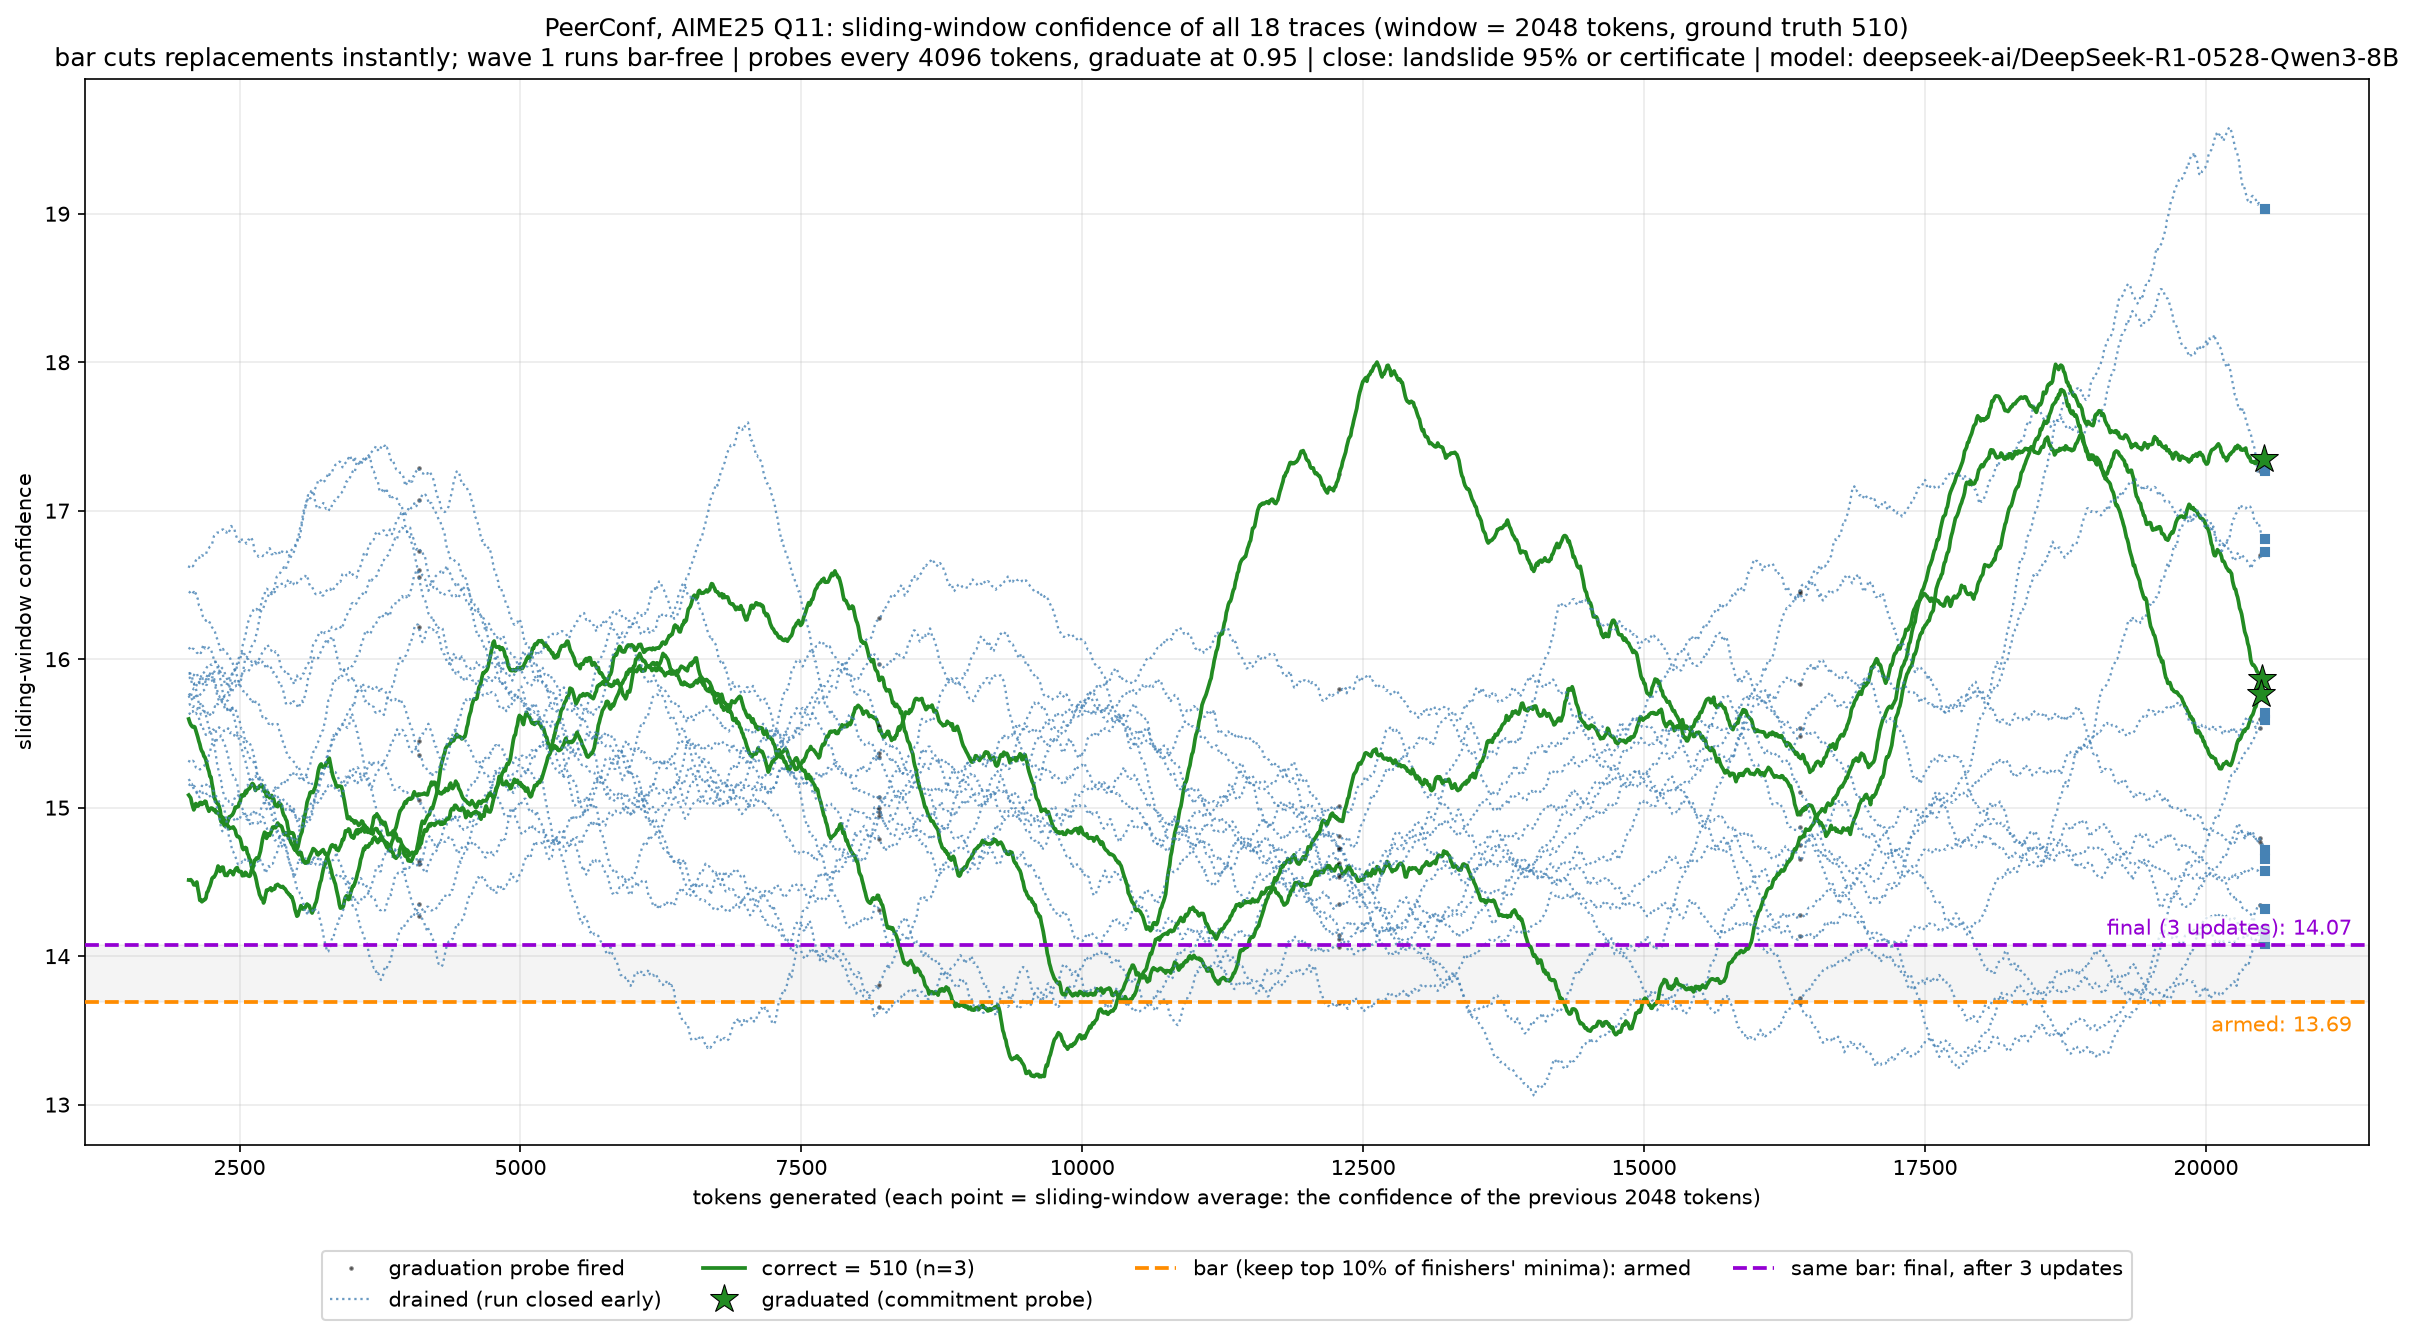
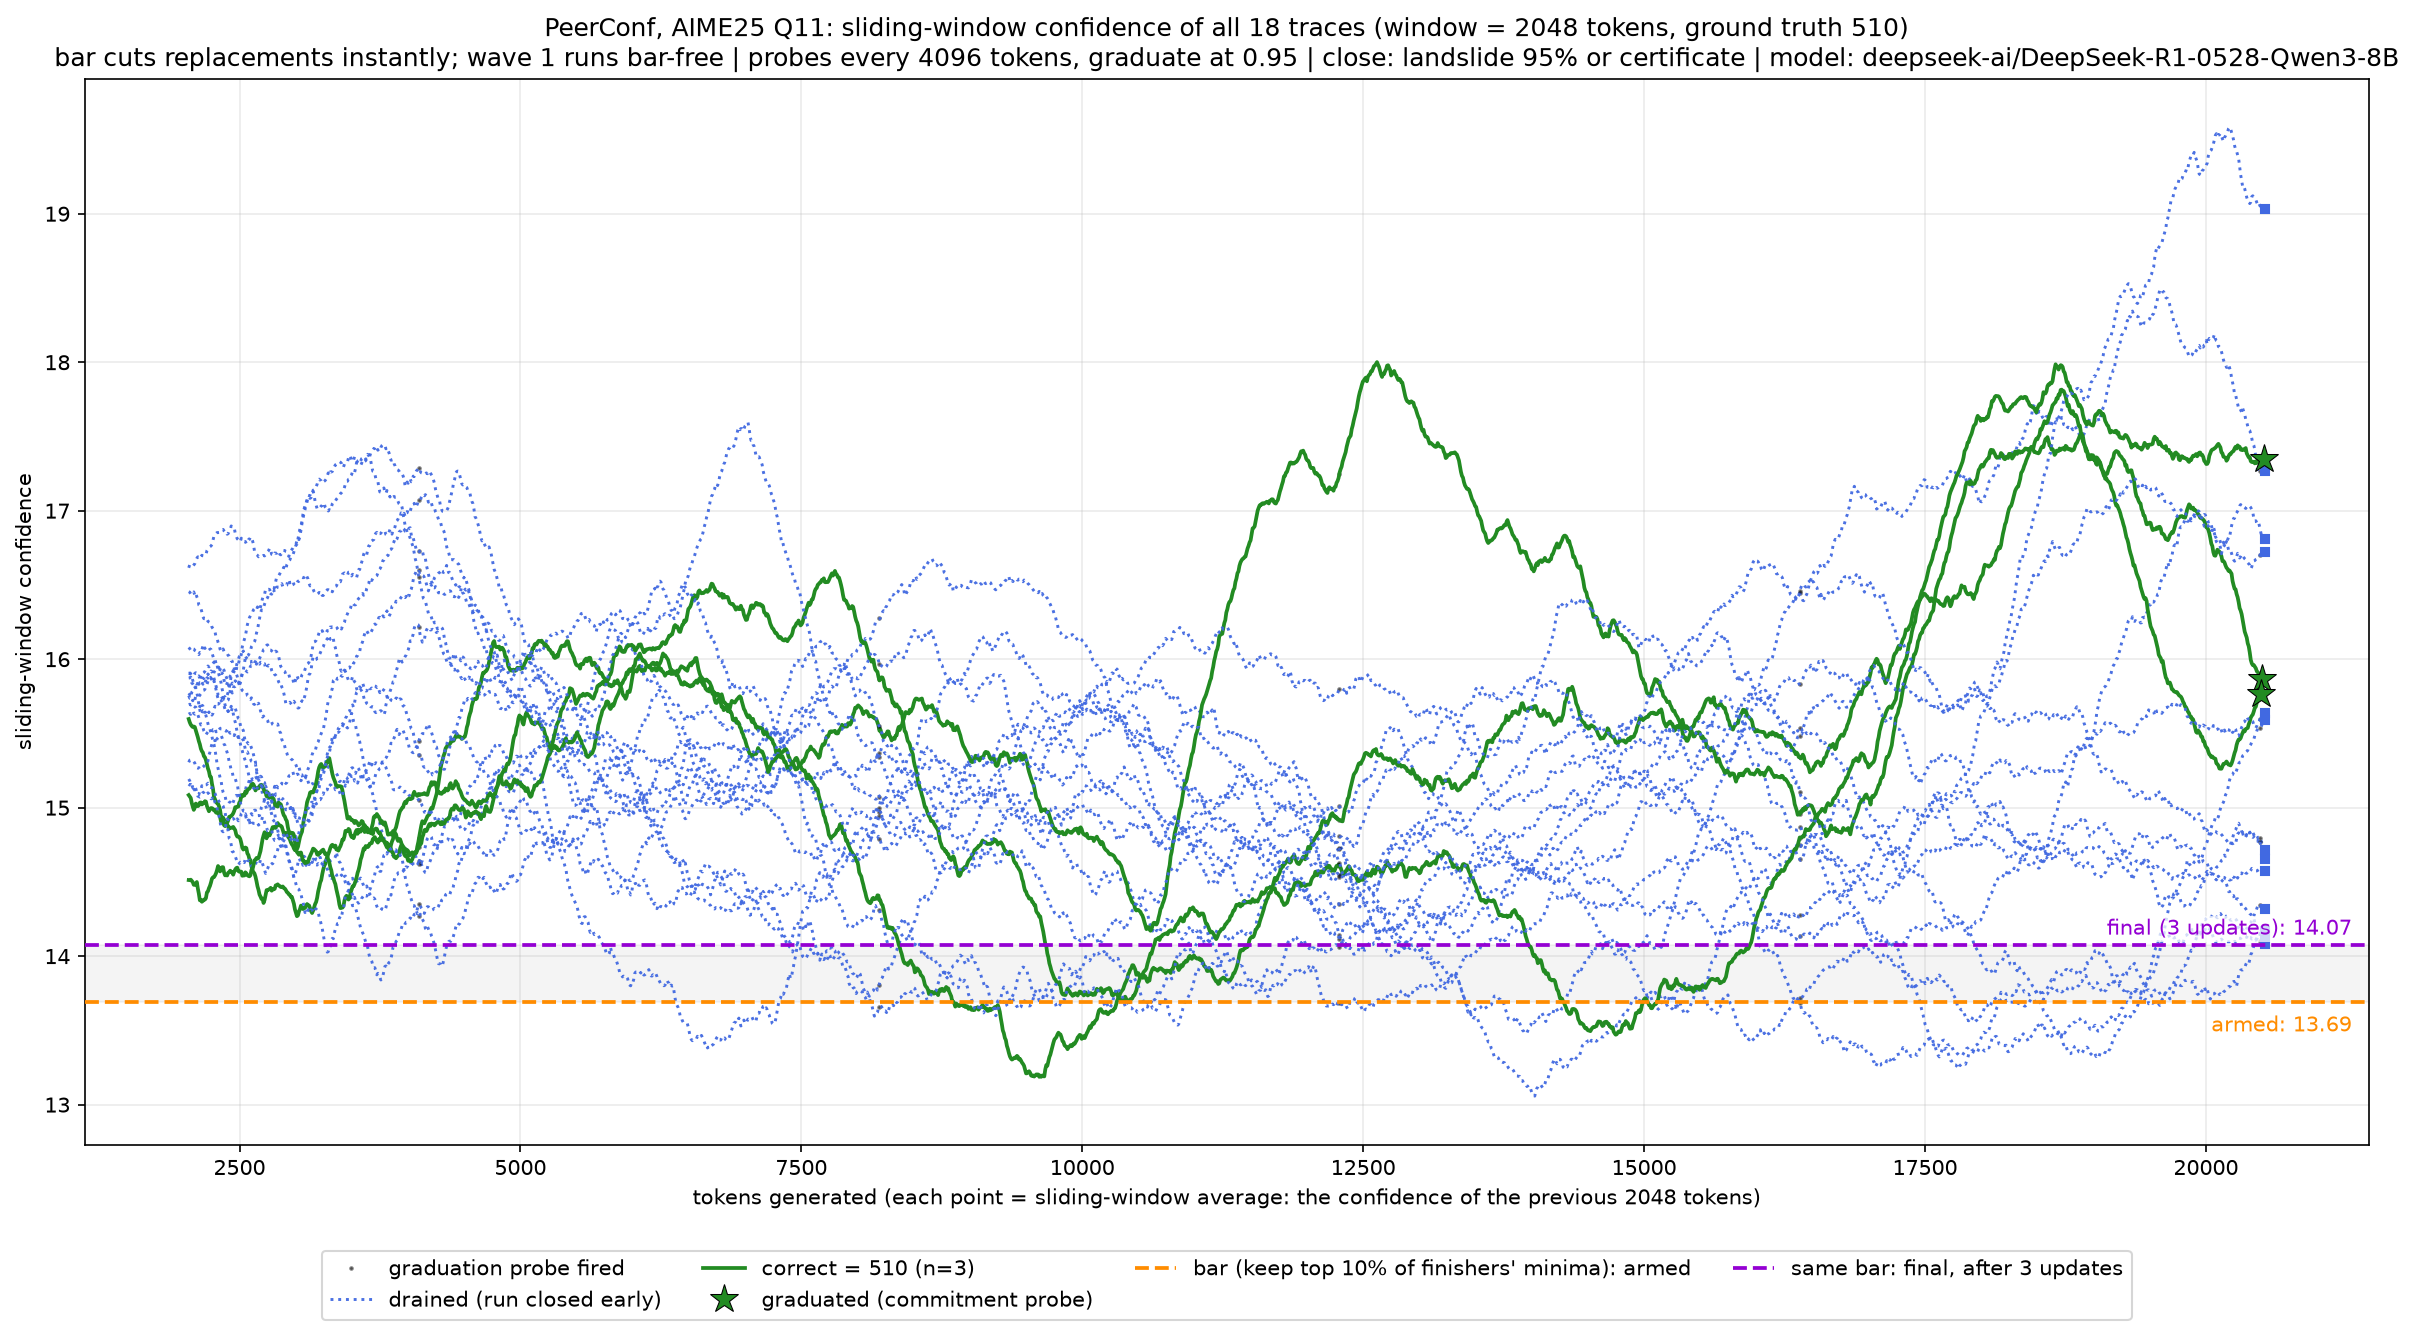
fix trace colours and stale token counts

diff --git a/peerconf/cell3_confidence_timeline.py b/peerconf/cell3_confidence_timeline.py
@@ -4,7 +4,7 @@
 # levels. One figure per question. Pick which questions with QIDS below.
 # Green = finished correct, red = the wrong majority, light red = other wrong
 # answers, gray + X = cut at the bar, khaki dashed = truncated with no answer,
-# steel dotted = drained when the run closed. Stars = graduated by a commitment
+# blue dotted = drained when the run closed. Stars = graduated by a commitment
 # probe; triangles = loop-guard harvests; small black dots along a trace mark
 # where each graduation probe fired.
 import os, re, pickle
@@ -107,13 +107,13 @@ def draw_timeline(fname):
                     label=label_once("other wrong answers"))
             end_marker(t, x[-1], confs[-1], "lightcoral")
         elif t["status"] == "abandoned":           # drained when the run closed
-            ax.plot(xs, ys, color="steelblue", lw=1.1, ls=":", alpha=0.8,
+            ax.plot(xs, ys, color="royalblue", lw=1.4, ls=":", alpha=0.95,
                     label=label_once("drained (run closed early)"))
-            ax.plot(x[-1], confs[-1], "s", color="steelblue", ms=4)
+            ax.plot(x[-1], confs[-1], "s", color="royalblue", ms=4)
         else:                                      # truncated — cap or EOS, no answer
-            ax.plot(xs, ys, color="darkkhaki", lw=1.2, ls="--", alpha=0.9,
+            ax.plot(xs, ys, color="darkgoldenrod", lw=1.4, ls="--", alpha=0.95,
                     label=label_once("no answer (truncated)"))
-            ax.plot(x[-1], confs[-1], "o", color="darkkhaki", ms=4)
+            ax.plot(x[-1], confs[-1], "o", color="darkgoldenrod", ms=4)
 
     # the self-calibrating bar: armed level and final level, with the drift band.
     # (new pkls: line_history = bar updates; old pkls: the live line — the
@@ -164,10 +164,10 @@ def draw_timeline(fname):
     # was truncated by the budget, not by anything the run decided
     cap = cfg.get("MAX_TOK_TRACE")
     if cap and any(len(t["confs"]) + WINDOW >= cap * 0.98 for t in r["traces"] if t["confs"]):
-        ax.axvline(cap, color="darkkhaki", ls=":", lw=1.2, alpha=0.8)
+        ax.axvline(cap, color="darkgoldenrod", ls=":", lw=1.2, alpha=0.8)
         ax.annotate(f"cap {cap:,}", xy=(cap, 1.0), xycoords=("data", "axes fraction"),
                     xytext=(-4, -12), textcoords="offset points",
-                    ha="right", color="darkkhaki", fontsize=9)
+                    ha="right", color="darkgoldenrod", fontsize=9)
 
     probe_every = cfg.get("PROBE_EVERY")
     sub = (f"bar cuts replacements instantly; wave 1 runs bar-free | "

diff --git a/results/aime25/README.md b/results/aime25/README.md
@@ -69,11 +69,11 @@ self-calibrating bar from armed to final.
 
 ![Q11](timelines/q11_peerconf_confidence_timeline.png)
 
-### Q12  ground truth 204, correct, 920K tokens
+### Q12  ground truth 204, correct, 911K tokens
 
 ![Q12](timelines/q12_peerconf_confidence_timeline.png)
 
-### Q13  ground truth 60, WRONG, answered 71, 1792K tokens
+### Q13  ground truth 60, WRONG, answered 71, 1032K tokens
 
 ![Q13](timelines/q13_peerconf_confidence_timeline.png)
 
@@ -129,7 +129,7 @@ self-calibrating bar from armed to final.
 
 ![Q26](timelines/q26_peerconf_confidence_timeline.png)
 
-### Q27  ground truth 248, WRONG, answered 0, 1539K tokens
+### Q27  ground truth 248, WRONG, answered 208, 1031K tokens
 
 ![Q27](timelines/q27_peerconf_confidence_timeline.png)
 
